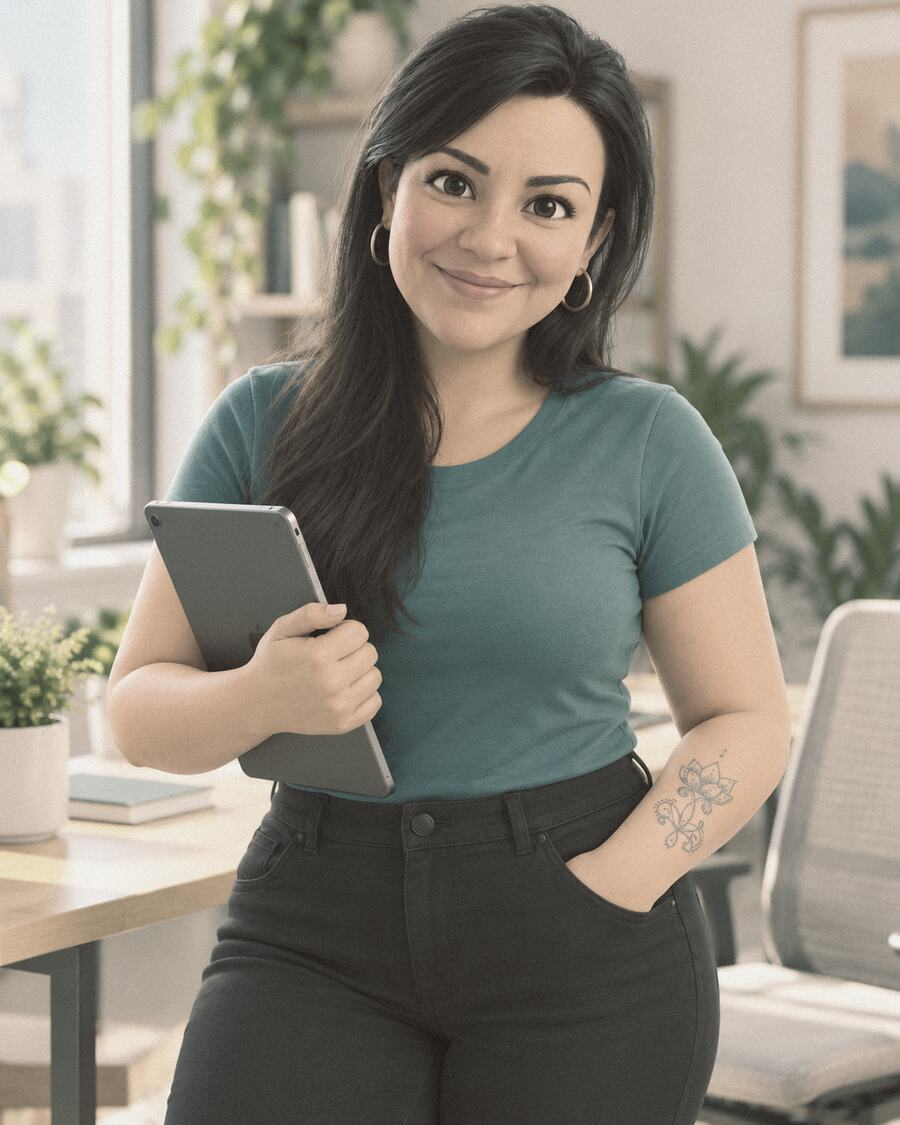
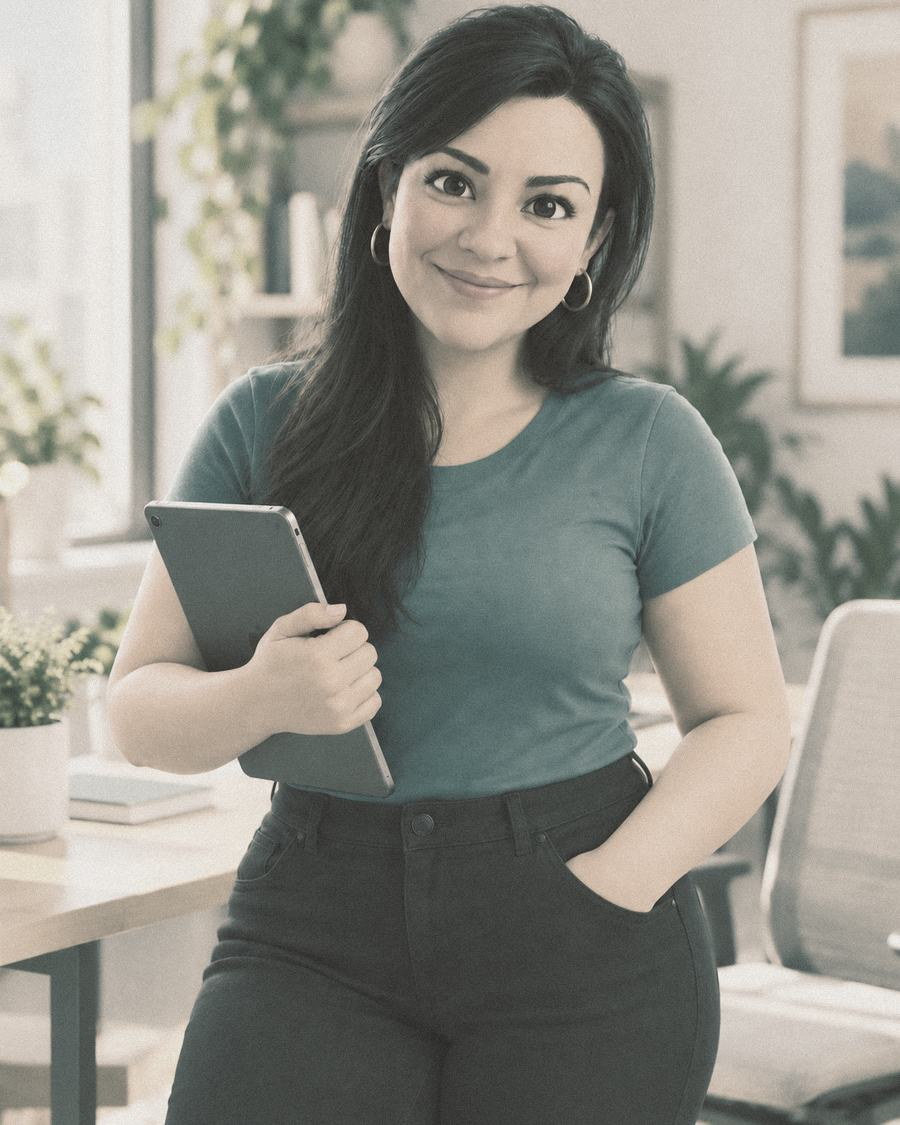
Home: new portrait without tattoo, fix photo panel height

diff --git a/index.html b/index.html
@@ -1346,6 +1346,8 @@
   .how-diagram-kicker, .evidence-tab-field, .science-cta-label, .lm-img-label { font-size: 12px; }
   .nav-links a, .footer-link, .btn-ghost { display: inline-block; padding-top: 11px; padding-bottom: 11px; }
   .social-link { min-width: 44px; min-height: 44px; }
+  .inner-balance-feel-inner { align-items: stretch; }
+  .ibf-visual-image { position: absolute; inset: 0; width: 100%; height: 100%; object-fit: cover; object-position: center 18%; }
 </style>
 </head>
   
